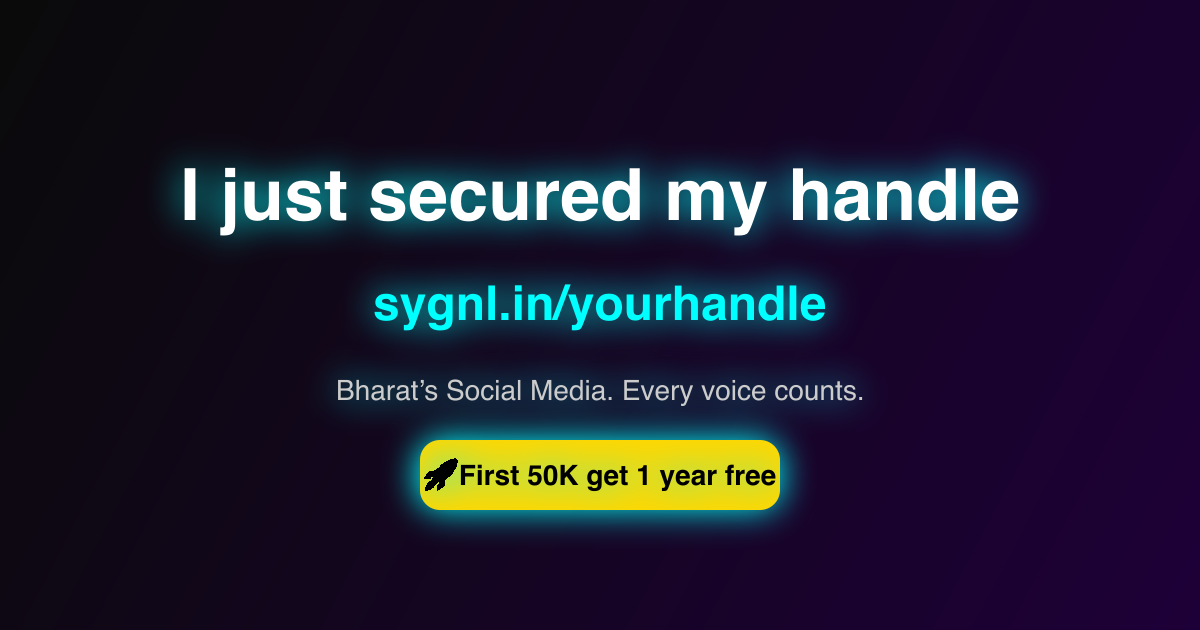
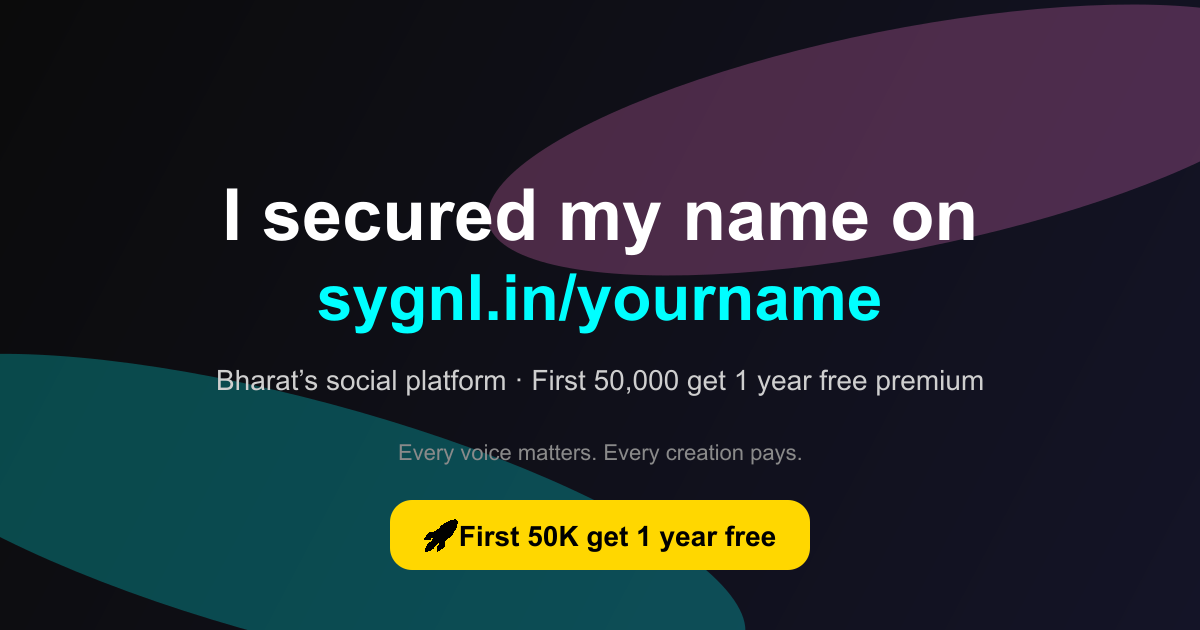
deploy: expo web to vercel

diff --git a/scripts/generate-og.ts b/scripts/generate-og.ts
@@ -1,51 +1,76 @@
-import { createCanvas, loadImage, registerFont } from "canvas";
-import fs from "fs";
-
-// Register custom font (downloaded in /public/fonts)
+// scripts/generate-og.js
+const { createCanvas } = require("canvas");
+const fs = require("fs");
+const path = require("path");
 
 const width = 1200;
 const height = 630;
+
 const canvas = createCanvas(width, height);
 const ctx = canvas.getContext("2d");
 
 // Background gradient
-const gradient = ctx.createLinearGradient(0, 0, width, height);
-gradient.addColorStop(0, "#0a0a0a");
-gradient.addColorStop(1, "#1e0038");
-ctx.fillStyle = gradient;
+const g = ctx.createLinearGradient(0, 0, width, height);
+g.addColorStop(0, "#0b0b0b");
+g.addColorStop(1, "#141427");
+ctx.fillStyle = g;
 ctx.fillRect(0, 0, width, height);
 
-// Neon glow effect
-ctx.shadowColor = "#00ffff";
-ctx.shadowBlur = 30;
+// Subtle glow bars
+ctx.globalAlpha = 0.25;
+ctx.fillStyle = "#00ffff";
+ctx.beginPath();
+ctx.ellipse(300, 520, 460, 120, Math.PI / 12, 0, 2 * Math.PI);
+ctx.fill();
+ctx.fillStyle = "#ff7dd6";
+ctx.beginPath();
+ctx.ellipse(900, 140, 420, 110, -Math.PI / 16, 0, 2 * Math.PI);
+ctx.fill();
+ctx.globalAlpha = 1;
 
 // Title
-ctx.font = "bold 72px Poppins";
 ctx.fillStyle = "#ffffff";
+ctx.font = "bold 72px Arial";
 ctx.textAlign = "center";
-ctx.fillText("I just secured my handle", width / 2, 220);
+ctx.fillText("I secured my name on", width / 2, 240);
 
-// Sub text (handle)
-ctx.font = "bold 48px Poppins";
+// Handle placeholder
 ctx.fillStyle = "#00ffff";
-ctx.fillText("sygnl.in/yourhandle", width / 2, 320);
+ctx.font = "900 64px Arial";
+ctx.fillText("sygnl.in/yourname", width / 2, 320);
 
 // Tagline
-ctx.font = "28px Poppins";
-ctx.fillStyle = "#cccccc";
-ctx.fillText("Bharat’s Social Media. Every voice counts.", width / 2, 400);
+ctx.fillStyle = "#cfcfcf";
+ctx.font = "28px Arial";
+ctx.fillText("Bharat’s social platform · First 50,000 get 1 year free premium", width / 2, 390);
+
+// Footer brand
+ctx.fillStyle = "#8a8a8a";
+ctx.font = "22px Arial";
+ctx.fillText("Every voice matters. Every creation pays.", width / 2, 460);
 
 // Badge
 ctx.fillStyle = "#ffd700";
+const badgeW = 420, badgeH = 70;
+const badgeX = width / 2 - badgeW / 2, badgeY = 500;
+const r = 22;
 ctx.beginPath();
-ctx.roundRect(width / 2 - 180, 440, 360, 70, 20);
+ctx.moveTo(badgeX + r, badgeY);
+ctx.arcTo(badgeX + badgeW, badgeY, badgeX + badgeW, badgeY + badgeH, r);
+ctx.arcTo(badgeX + badgeW, badgeY + badgeH, badgeX, badgeY + badgeH, r);
+ctx.arcTo(badgeX, badgeY + badgeH, badgeX, badgeY, r);
+ctx.arcTo(badgeX, badgeY, badgeX + badgeW, badgeY, r);
+ctx.closePath();
 ctx.fill();
+
 ctx.fillStyle = "#000";
-ctx.font = "bold 28px Poppins";
-ctx.fillText("🚀 First 50K get 1 year free", width / 2, 485);
+ctx.font = "bold 28px Arial";
+ctx.fillText("🚀 First 50K get 1 year free", width / 2, badgeY + 46);
 
-// Export
-const buffer = canvas.toBuffer("image/png");
-fs.writeFileSync("public/og/og-default.png", buffer);
+// Save
+const outDir = path.join(process.cwd(), "public", "og");
+fs.mkdirSync(outDir, { recursive: true });
+const file = path.join(outDir, "og-default.png");
+fs.writeFileSync(file, canvas.toBuffer("image/png"));
 
-console.log("✅ OG image generated: public/og/og-default.png");
+console.log("✅ Generated:", file);

diff --git a/api/share.ts b/api/share.ts
@@ -1,0 +1,50 @@
+/* api/share.ts */
+export const config = { runtime: 'edge' };
+
+const SITE = 'https://sygnl.in';
+
+export default async function handler(req: Request) {
+  const url = new URL(req.url);
+  // handle can come from rewrite (?handle=...), or fallback to query/path
+  const handle =
+    url.searchParams.get('handle') ||
+    url.pathname.split('/').pop() ||
+    'yourname';
+
+  const og = `${SITE}/api/og?handle=${encodeURIComponent(handle)}`;
+  const title = `I secured my name on sygnl — secure yours now`;
+  const desc =
+    `Bharat’s social platform. Every voice matters. Every creation pays. ` +
+    `First 50,000 get 1 year free premium.`;
+
+  const html = `<!doctype html>
+<html lang="en">
+<head>
+<meta charset="utf-8" />
+<title>${title}</title>
+<meta name="viewport" content="width=device-width, initial-scale=1" />
+
+<meta property="og:type" content="website" />
+<meta property="og:site_name" content="sygnl" />
+<meta property="og:title" content="${title}" />
+<meta property="og:description" content="${desc}" />
+<meta property="og:url" content="${SITE}/share/${encodeURIComponent(handle)}" />
+<meta property="og:image" content="${og}" />
+<meta property="og:image:width" content="1200" />
+<meta property="og:image:height" content="630" />
+
+<meta name="twitter:card" content="summary_large_image" />
+<meta name="twitter:title" content="${title}" />
+<meta name="twitter:description" content="${desc}" />
+<meta name="twitter:image" content="${og}" />
+
+<!-- Optional: bounce humans to the app while crawlers keep the meta -->
+<meta http-equiv="refresh" content="0; url=/" />
+</head>
+<body></body></html>`;
+
+  return new Response(html, {
+    status: 200,
+    headers: { 'content-type': 'text/html; charset=utf-8', 'cache-control': 'public, max-age=3600' },
+  });
+}

diff --git a/api/og.ts b/api/og.ts
@@ -1,0 +1,30 @@
+/* api/og.ts */
+import { ImageResponse } from '@vercel/og';
+
+export const config = { runtime: 'edge' };
+
+export default async function handler(req: Request) {
+  const { searchParams } = new URL(req.url);
+  const handle = (searchParams.get('handle') || 'yourname').toLowerCase();
+
+  return new ImageResponse(
+    (
+      <div
+        style={{
+          width: 1200, height: 630, display: 'flex', flexDirection: 'column',
+          alignItems: 'center', justifyContent: 'center', background: 'black', color: 'white',
+          fontFamily: 'system-ui, Segoe UI, Arial',
+        }}
+      >
+        <h1 style={{ fontSize: 66, fontWeight: 800, margin: 0 }}>I secured my name on</h1>
+        <h2 style={{ fontSize: 60, fontWeight: 900, color: '#00ffff', margin: '10px 0' }}>
+          sygnl.in/{handle}
+        </h2>
+        <p style={{ fontSize: 28, color: '#cfcfcf', marginTop: 10 }}>
+          Bharat’s social platform · First 50,000 get 1 year free premium
+        </p>
+      </div>
+    ),
+    { width: 1200, height: 630 }
+  );
+}
